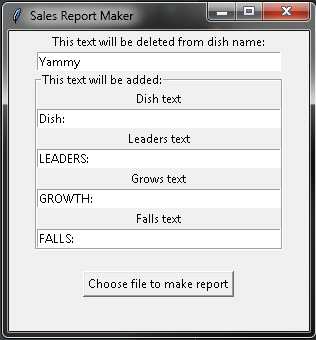
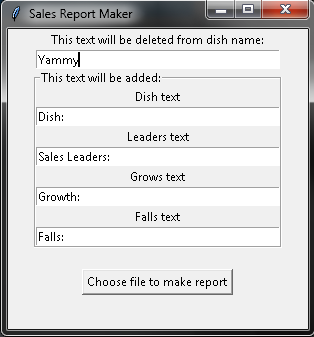
docs: update readme

diff --git a/README.md b/README.md
@@ -8,15 +8,19 @@ Sales Report Generator is a program, makes readable reports to send it to compan
 
 ## Example
 Shop name is "Yammy". 
-Program takes Excel report:
+Program takes `.xlsx` report:
 
 ![](images/input_file.png)
 
-It cleans up dish names itself. '*_' brackets are needed to make dishes test italic and bold.
+It cleans up dish names itself. `*_` are needed to make dishes text italic and bold.
+
 If you need to clean shop names, you can do this entering the word to be deleted in the input field.
+
 To diversify the appearance of the report, you may enter "Dish", "Sales Leaders", "Growth sales" and "Falls sales", even add emojis.
 
 ![](images/main_window.png)
+
+> The last entered data is saved and will be returned the next time you start the program. These values are stored in `variables.json`.
 
 Result:
 ```
